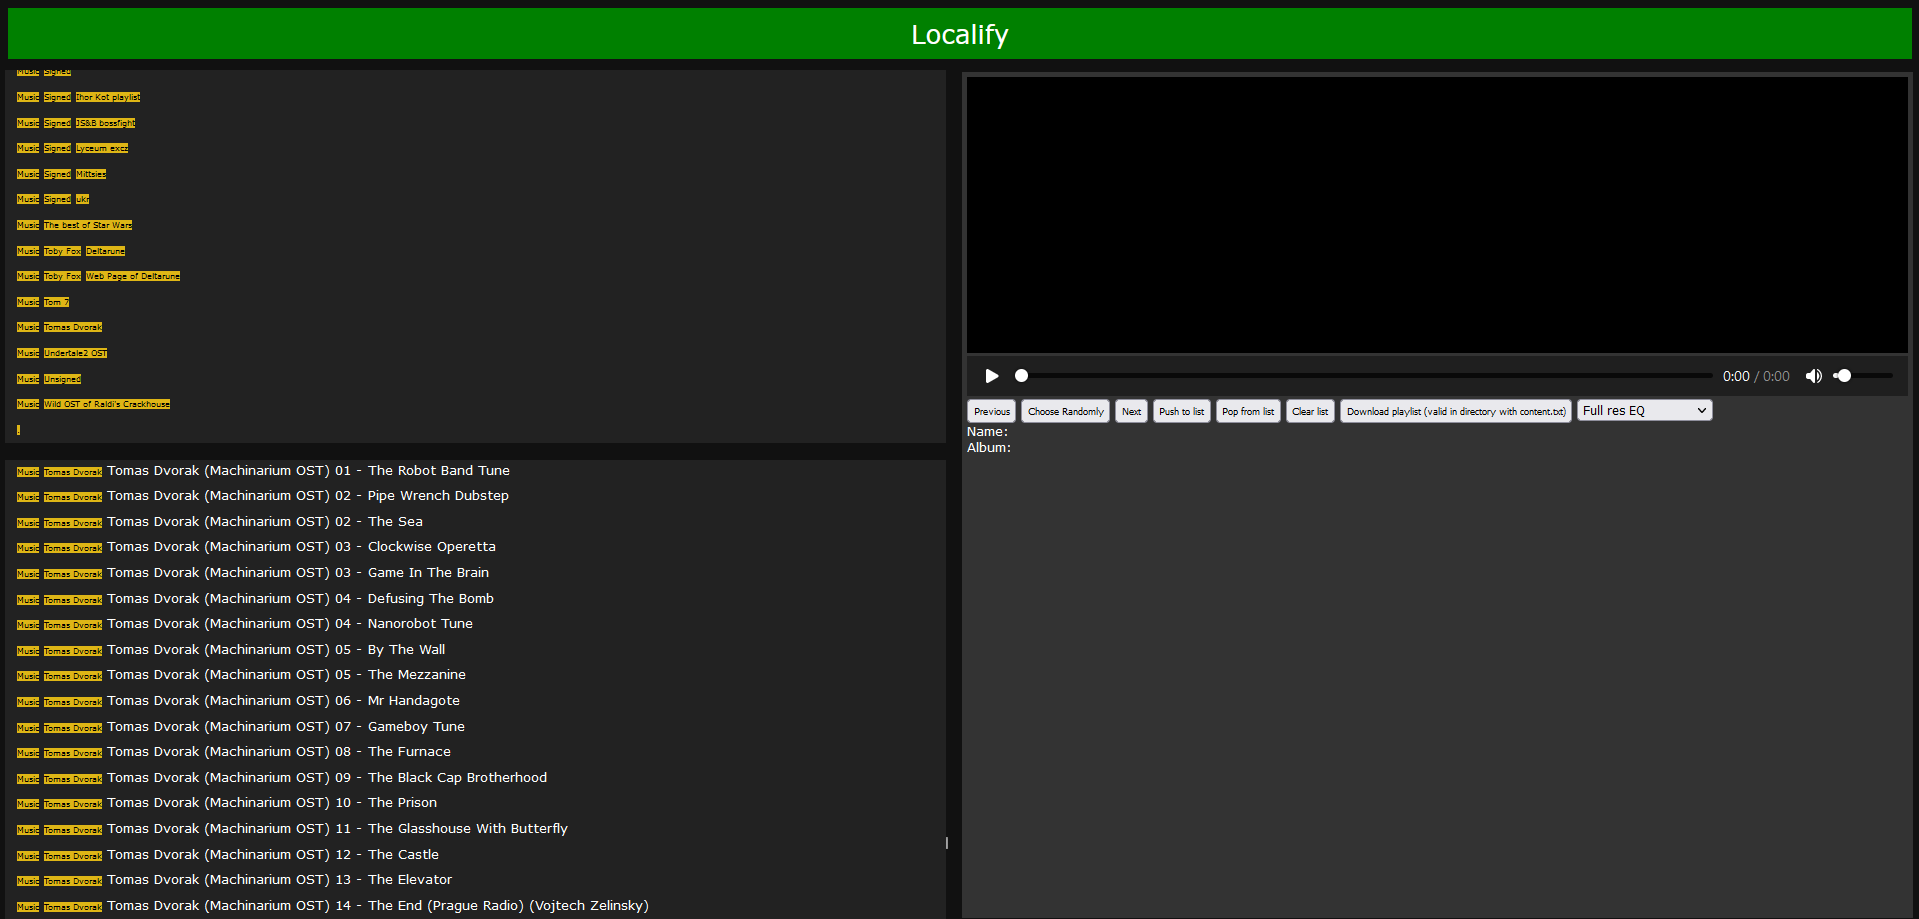
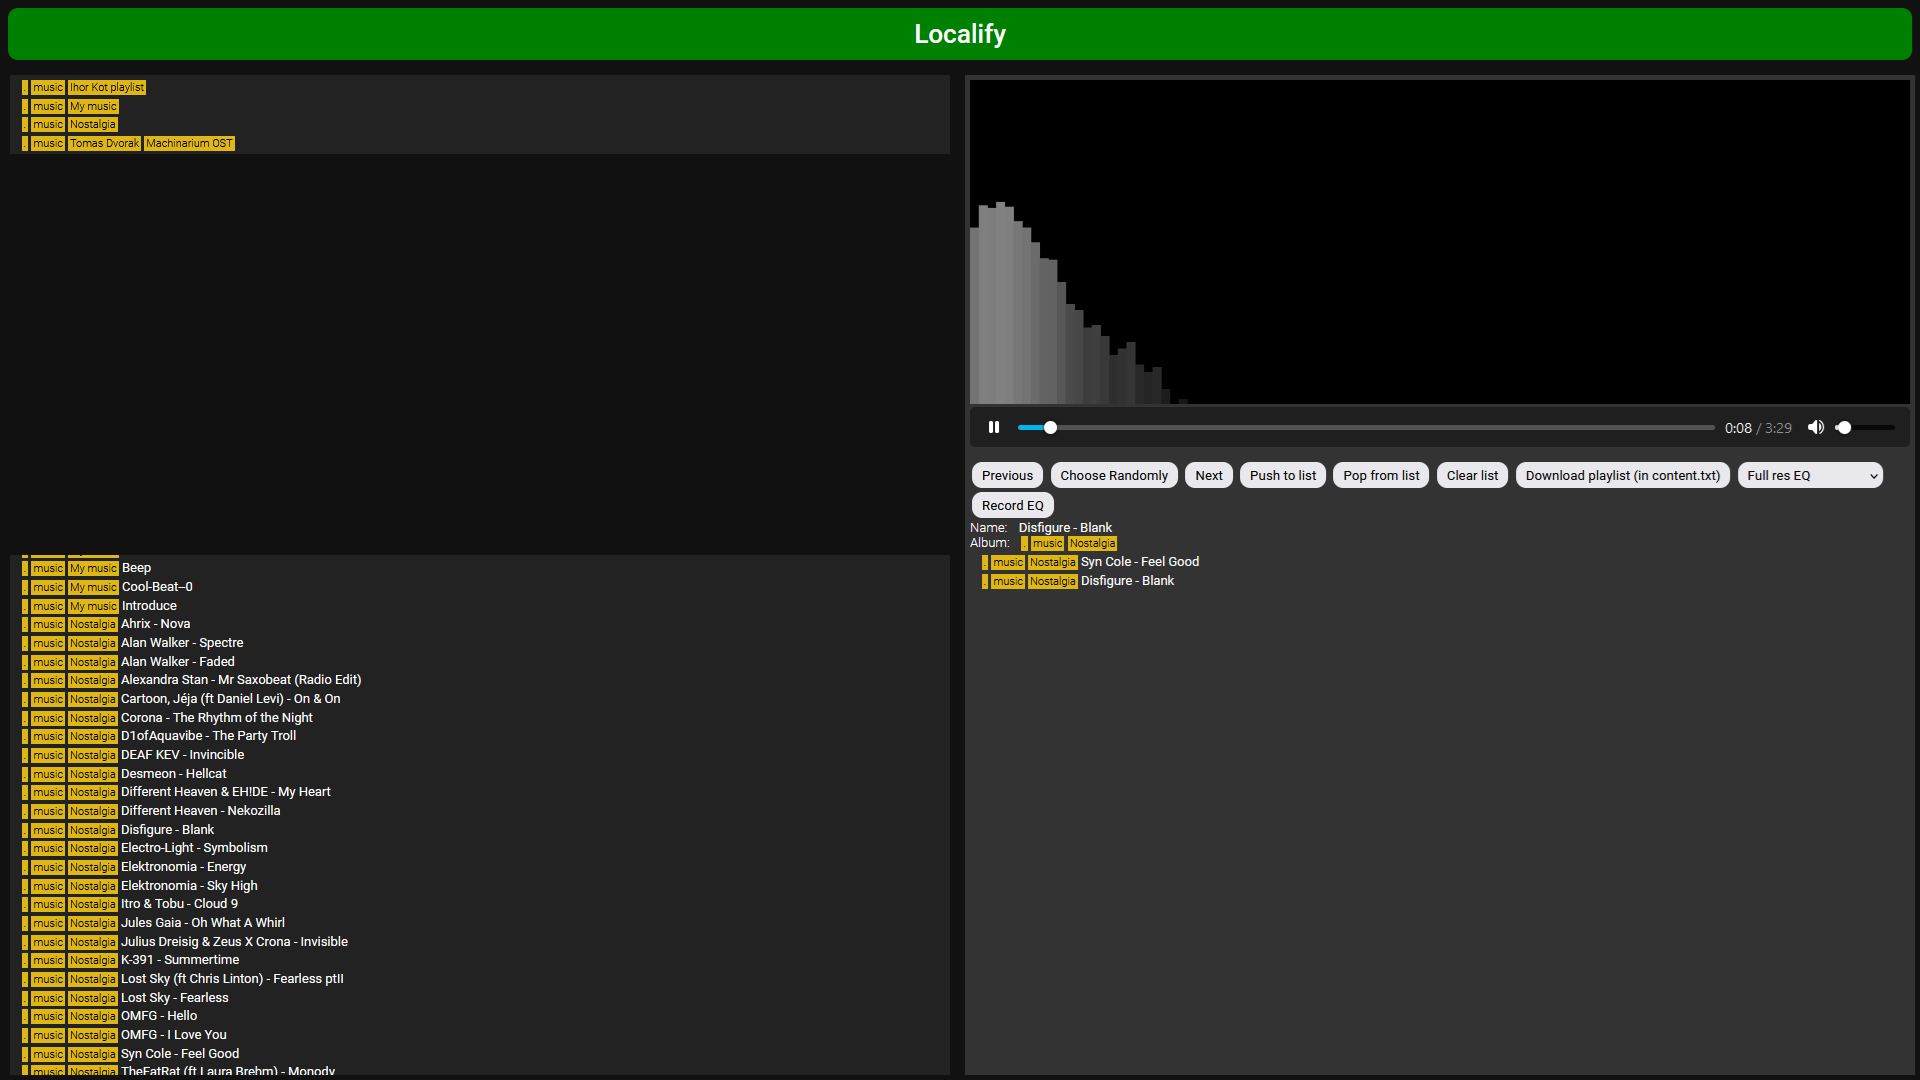
fixed web playlist loading and slightly changed style and embeded fresh screenshot

diff --git a/Localify.html b/Localify.html
@@ -4,6 +4,7 @@
 <head>
     <title>Localify</title>
     <meta charset="UTF-8" />
+    <meta name="viewport" content="width=device-width, initial-scale=1" />
 </head>
 
 <style>
@@ -38,15 +39,21 @@
         border: none;
         border-radius: 10px;
         margin-bottom: 5px;
+
+        position: fixed;
+        top: 10px;
+        left: 10px;
+        width: calc(100vw - 40px);
     }
 
-    select, button {
+    select,
+    button {
         font-family: "Roboto Regular";
         margin: 2px;
         padding: 5px;
         padding-left: 10px;
         padding-right: 10px;
-		border-radius: 10px;
+        border-radius: 10px;
         border: none;
     }
 
@@ -75,11 +82,14 @@
         padding-left: 2px;
         padding-right: 2px;
         color: black;
+        border: none;
+        border-radius: 2px;
     }
 
     .list tr {
         display: block;
         float: left;
+        overflow-x: hidden;
     }
 
     .list td {
@@ -88,7 +98,6 @@
         padding-right: 0.5vw;
         padding-top: 0.25ch;
         padding-bottom: 0.25ch;
-        min-width: 47.5vw;
     }
 
     .list tr td:hover {
@@ -103,21 +112,30 @@
     .recommend_overlay {
         overflow-y: auto;
         margin: 5px;
+        border: none;
+        border-bottom-left-radius: 10px;
     }
 
     .folder_overlay {
         overflow-y: auto;
         margin: 5px;
+        border: none;
+        border-top-left-radius: 10px;
     }
 
     #current_player_container {
         background-color: #333;
         margin-top: 5px;
+        border: none;
+        border-top-right-radius: 10px;
+        border-bottom-right-radius: 10px;
     }
 
     #equalizer_visualer {
         width: 100%;
         height: 30vh;
+        border: none;
+        border-top-right-radius: 10px;
     }
 
     .content_container {
@@ -135,16 +153,20 @@
             bottom: 5%;
             right: 5%;
         }
+
+        .list td {
+            width: calc(50vw - 60px);
+        }
     }
 
-    @media screen and (min-aspect-ratio: 1/1) {	
+    @media screen and (min-aspect-ratio: 1/1) {
         #button_scrollUp {
             display: none;
         }
 
         .overlay {
             position: fixed;
-            right: 5px;
+            right: 10px;
             height: calc(100vh - 90px);
             width: calc(50vw - 20px);
         }
@@ -174,6 +196,10 @@
 
         .folder_overlay {
             top: 70px;
+        }
+
+        .list tr {
+            width: calc(50vw - 20px - 25px);
         }
     }
 </style>
@@ -692,24 +718,29 @@
             let promises = [];
 
             songLinks.forEach(link => {
-                let audio = new Audio();
+                if (inWebMode) {
+                    totalDuration.push(5);
+                }
+                else {
+                    let audio = new Audio();
 
-                audio.src = link;
+                    audio.src = link;
 
-                let promise = new Promise((resolve, reject) => {
-                    audio.onloadedmetadata = () => {
-                        totalDuration.push(audio.duration);
-                        resolve();
-                    };
+                    let promise = new Promise((resolve, reject) => {
+                        audio.onloadedmetadata = () => {
+                            totalDuration.push(audio.duration);
+                            resolve();
+                        };
 
-                    audio.onerror = () => {
-                        reject(`Error loading ${link}`);
-                    };
-                });
+                        audio.onerror = () => {
+                            reject(`Error loading ${link}`);
+                        };
+                    });
 
-                promises.push(promise);
+                    promises.push(promise);
 
-                audio.load();
+                    audio.load();
+                }
             });
 
             return Promise.all(promises).then(() => {
@@ -720,7 +751,7 @@
             let path = window.location.href;
 
             let slash = path.lastIndexOf('/');
-            if(slash === path.length - 1) {
+            if (slash === path.length - 1) {
                 path = path.substring(0, slash);
                 slash = path.lastIndexOf('/');
             }
@@ -728,13 +759,13 @@
             path = path.substring(0, slash);
 
             let dot = pathMusic.indexOf("./");
-            
-            if(dot !== -1 && dot === 0) {
+
+            if (dot !== -1 && dot === 0) {
                 pathMusic = pathMusic.substring(3);
             }
 
             let dotdot = pathMusic.indexOf("../");
-            while(dotdot !== -1) {
+            while (dotdot !== -1) {
                 slash = path.lastIndexOf('/');
                 path = path.substring(0, slash);
 
@@ -750,7 +781,7 @@
             return getSongDurations(playlist)
                 .then(totalDuration => {
                     for (let i = 0; i < playlist.length; i++) {
-                        resFile += `#EXFINF:${Math.ceil(totalDuration[i])},${chopLocDirRaw(playlist[i], directorySeparation)} - ${convertLinkToName(playlist[i])}\n${ inWebMode ? convertMusicLinkToWeb(playlist[i]) : playlist[i]}\n`;
+                        resFile += `#EXFINF:${Math.ceil(totalDuration[i])},${chopLocDirRaw(playlist[i], directorySeparation)} - ${convertLinkToName(playlist[i])}\n${inWebMode ? convertMusicLinkToWeb(playlist[i]) : playlist[i]}\n`;
                     }
 
                     return resFile;
